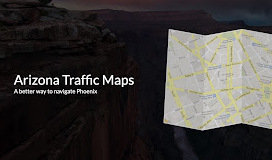
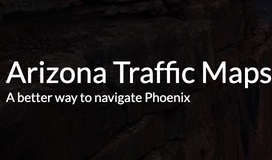
replace images for Arizona Traffic Maps

diff --git a/components/projects/modal-data/AZTMModal.js b/components/projects/modal-data/AZTMModal.js
@@ -13,8 +13,8 @@ const AZTM_Modal = () => {
           layout="responsive"
           height="364px"
           width="800px"
-          src="/images/AZTM.jpg"
-          alt="GymX5000 image"
+          src="/images/AZTM.jpeg"
+          alt="AZTM image"
         />
       </div>
       <div className="flex flex-col md:w-[100%]">
@@ -39,7 +39,7 @@ const AZTM_Modal = () => {
         </div>
         <span className="text-2xl my-2">About</span>
         <div className="text-sm overflow-y-auto max-h-[30vh] mb-4">
-          Arizona Traffic Maps
+          Arizona Traffic Maps (AZTM) is an app that allows you to view traffic cameras and events on a custom built google map in the State of Arizona using the AZ 511 API. This project was a 2-day sprint to build an MVP full-stack application.
         </div>
       </div>
     </div>

diff --git a/components/projects/modal-data/SDGModal.js b/components/projects/modal-data/SDGModal.js
@@ -24,6 +24,8 @@ const SDGModal = () => {
             {badges.sassBadge}
             {badges.reactBadge}
             {badges.expressBadge}
+            {badges.webpackBadge}
+            {badges.babelBadge}
             {badges.postgresBadge}
             {badges.chartBadge}
             {badges.nodeBadge}

diff --git a/components/projects/ArizonaTrafficMaps.js b/components/projects/ArizonaTrafficMaps.js
@@ -17,7 +17,7 @@ const ArizonaTrafficMaps = () => {
               layout="responsive"
               height="10em"
               width="17em"
-              alt="GymX5000 Pic"
+              alt="AZTM Pic"
               src="/images/AZTMCard.jpeg"
             />
           </div>
